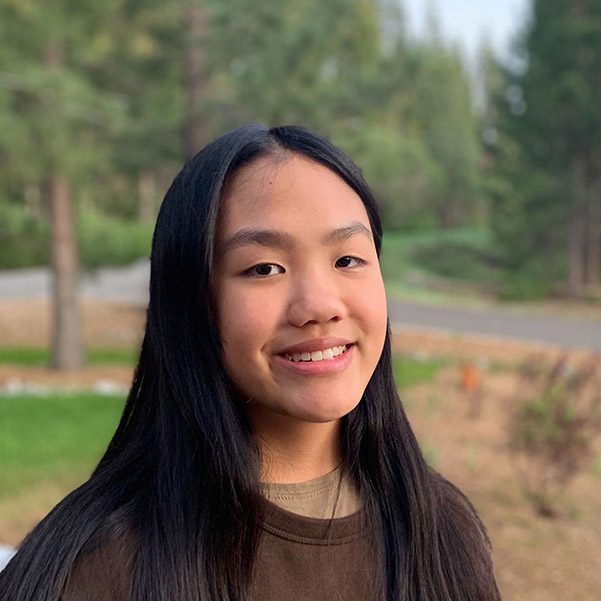
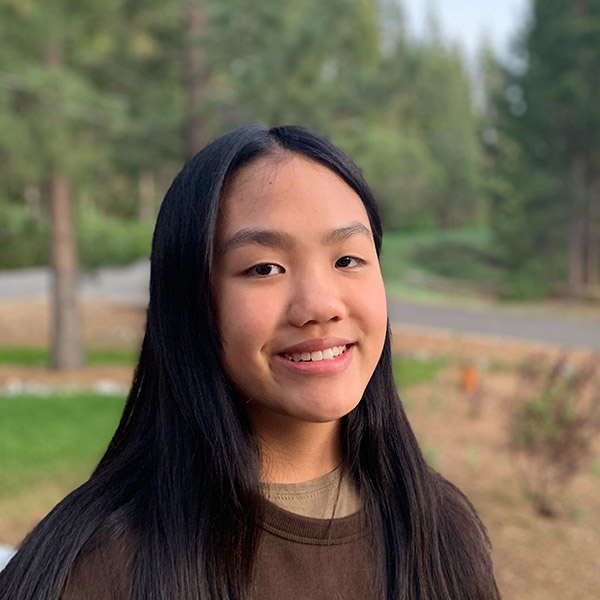
Image optimizations

diff --git a/components/bridge/TeamData.tsx b/components/bridge/TeamData.tsx
@@ -7,15 +7,28 @@ export interface TeamMemberProps {
   name: string;
   title: string;
   type: TeamType;
-  image: { jpg: string; webp: string };
+  image: { jpg: string; webp: string; srcSet: string };
   bio: React.ReactNode;
 }
 
-function image(path: string): { image: { jpg: string; webp: string } } {
+const PHOTO_SIZES = {
+  "": { width: 600, height: 600 },
+  "@0.5x": { width: 300, height: 300 },
+} as const;
+
+function image(postfix: string): Pick<TeamMemberProps, "image"> {
+  const SIZE_ORDER = ["@0.5x", ""] as const;
   return {
     image: {
-      jpg: require(`public/images/bridge/${path}`),
-      webp: require(`public/images/bridge/${path}?webp`),
+      jpg: require(`public/images/bridge/${postfix}.jpg`),
+      srcSet: SIZE_ORDER.map((k) => {
+        const fn = require(`public/images/bridge/${postfix}${k}.jpg`);
+        return `${fn} ${PHOTO_SIZES[k].width}w`;
+      }).join(","),
+      webp: SIZE_ORDER.map((k) => {
+        const fn = require(`public/images/bridge/${postfix}${k}.jpg?webp`);
+        return `${fn} ${PHOTO_SIZES[k].width}w`;
+      }).join(","),
     },
   };
 }
@@ -25,7 +38,7 @@ const TEAM: TeamMemberProps[] = [
     name: "Johnny Lin",
     type: "Team",
     title: "Student Ambassador, Mission Bit",
-    ...image("team/johnny_lin.jpg"),
+    ...image("team/johnny_lin"),
     bio: (
       <>
         Hello! My name is Johnny and I am one of the youth organizers for the
@@ -47,7 +60,7 @@ const TEAM: TeamMemberProps[] = [
     name: "Alexander Peng",
     type: "Team",
     title: "Student Ambassador, Mission Bit",
-    ...image("team/alexander_peng.jpg"),
+    ...image("team/alexander_peng"),
     bio: (
       <>
         Hey! I’m Alex and I’ll be one of your organizers for the conference. I’m
@@ -68,7 +81,7 @@ const TEAM: TeamMemberProps[] = [
     name: "Derick Du",
     type: "Team",
     title: "Student Ambassador, Mission Bit",
-    ...image("team/derick_du.jpg"),
+    ...image("team/derick_du"),
     bio: (
       <>
         Hi, my name is Derick and I am part of the Mission Bit SAB and will be
@@ -90,7 +103,7 @@ const TEAM: TeamMemberProps[] = [
     name: "Tara Tiong",
     type: "Team",
     title: "Student Ambassador, Mission Bit",
-    ...image("team/tara_tiong.jpg"),
+    ...image("team/tara_tiong"),
     bio: (
       <>
         Hi! I’m Tara, my team and I organized this conference. I am looking
@@ -115,7 +128,7 @@ const KEYNOTE_SPEAKERS: TeamMemberProps[] = [
     name: "Caitlin Kalinowski",
     type: "Keynote Speaker",
     title: "Director of VR Hardware, Facebook",
-    ...image("keynote-speakers/caitlin_kalinowski.jpg"),
+    ...image("keynote-speakers/caitlin_kalinowski"),
     bio: (
       <>
         Caitlin Kalinowski heads up the VR Hardware team for Facebook’s AR/VR
@@ -142,7 +155,7 @@ const KEYNOTE_SPEAKERS: TeamMemberProps[] = [
     type: "Keynote Speaker",
     title:
       "Software engineer at Slack and the Executive Director of Techqueria",
-    ...image("keynote-speakers/frances_coronel.jpg"),
+    ...image("keynote-speakers/frances_coronel"),
     bio: (
       <>
         I am currently a software engineer specializing in UI development on the
@@ -168,7 +181,7 @@ const PANELISTS: TeamMemberProps[] = [
     name: "Allison Doami",
     type: "Panelist",
     title: "Data Infrastructure Engineer, Chan Zuckerberg Initiative",
-    ...image("panelists/allison_doami.jpg"),
+    ...image("panelists/allison_doami"),
     bio: (
       <>
         Allison Doami is currently a Data Infrastructure Engineer at the Chan
@@ -188,7 +201,7 @@ const PANELISTS: TeamMemberProps[] = [
     name: "Yulkendy Valdez",
     type: "Panelist",
     title: "Co-Founder & CEO, Forefront",
-    ...image("panelists/yulkendy_valdez.jpg"),
+    ...image("panelists/yulkendy_valdez"),
     bio: (
       <>
         Yulkendy is a Forbes 30 Under 30 social entrepreneur, storyteller, and
@@ -218,7 +231,7 @@ const PANELISTS: TeamMemberProps[] = [
     name: "Simran Kumar",
     type: "Panelist",
     title: "Mission Bit alum",
-    ...image("panelists/simran_kumar.jpg"),
+    ...image("panelists/simran_kumar"),
     bio: (
       <>
         Hi! I’m Simran, a 2014 Mission Bit alum and Mission native with big love

diff --git a/components/bridge/SponsorData.tsx b/components/bridge/SponsorData.tsx
@@ -13,14 +13,14 @@ export const Sponsors: SponsorData[] = [
     title: "YMCA San Francisco Youth Empowerment Fund",
     width: 1262,
     height: 258,
-    logoUrl: "/images/bridge/sponsors/yef.svg",
+    logoUrl: require("public/images/bridge/sponsors/yef.svg"),
   },
   {
     href: "https://www.missionbit.org/",
     title: "Mission Bit",
     width: 512,
     height: 150,
-    logoUrl: "/images/bridge/sponsors/mission-bit.svg",
+    logoUrl: require("public/images/bridge/sponsors/mission-bit.svg"),
   },
 ];
 
@@ -30,42 +30,42 @@ export const Employers: SponsorData[] = [
     title: "Facebook",
     width: 1600,
     height: 900,
-    logoUrl: "/images/bridge/employers/facebook.svg",
+    logoUrl: require("public/images/bridge/employers/facebook.svg"),
   },
   {
     href: "https://slack.com/",
     title: "Slack",
     width: 622.3,
     height: 254.4,
-    logoUrl: "/images/bridge/employers/slack.svg",
+    logoUrl: require("public/images/bridge/employers/slack.svg"),
   },
   {
     href: "https://chanzuckerberg.com/",
     title: "Chan Zuckerberg Initiative",
     width: 112,
     height: 62,
-    logoUrl: "/images/bridge/employers/chan-zuckerberg-initiative.svg",
+    logoUrl: require("public/images/bridge/employers/chan-zuckerberg-initiative.svg"),
   },
   {
     href: "https://www.getforefront.co/",
     title: "Forefront",
     width: 236,
     height: 150,
-    logoUrl: "/images/bridge/employers/forefront.png",
+    logoUrl: require("public/images/bridge/employers/forefront.png"),
   },
   {
     href: "https://discord.com/",
     title: "Discord",
     width: 800,
     height: 272.1,
-    logoUrl: "/images/bridge/employers/discord.svg",
+    logoUrl: require("public/images/bridge/employers/discord.svg"),
   },
   {
     href: "https://www.oculus.com/",
     title: "Oculus",
     width: 800,
     height: 400,
-    logoUrl: "/images/bridge/employers/oculus.svg",
+    logoUrl: require("public/images/bridge/employers/oculus.svg"),
   },
 ];
 

diff --git a/components/bridge/Person.tsx b/components/bridge/Person.tsx
@@ -69,6 +69,7 @@ const Person: React.FC<TeamMemberProps> = ({ name, bio, image, title }) => {
         desc={name}
         className={classes.picture}
         fill={brand.indigo}
+        srcSet={image.srcSet}
         srcSetWebP={image.webp}
         src={image.jpg}
       />
